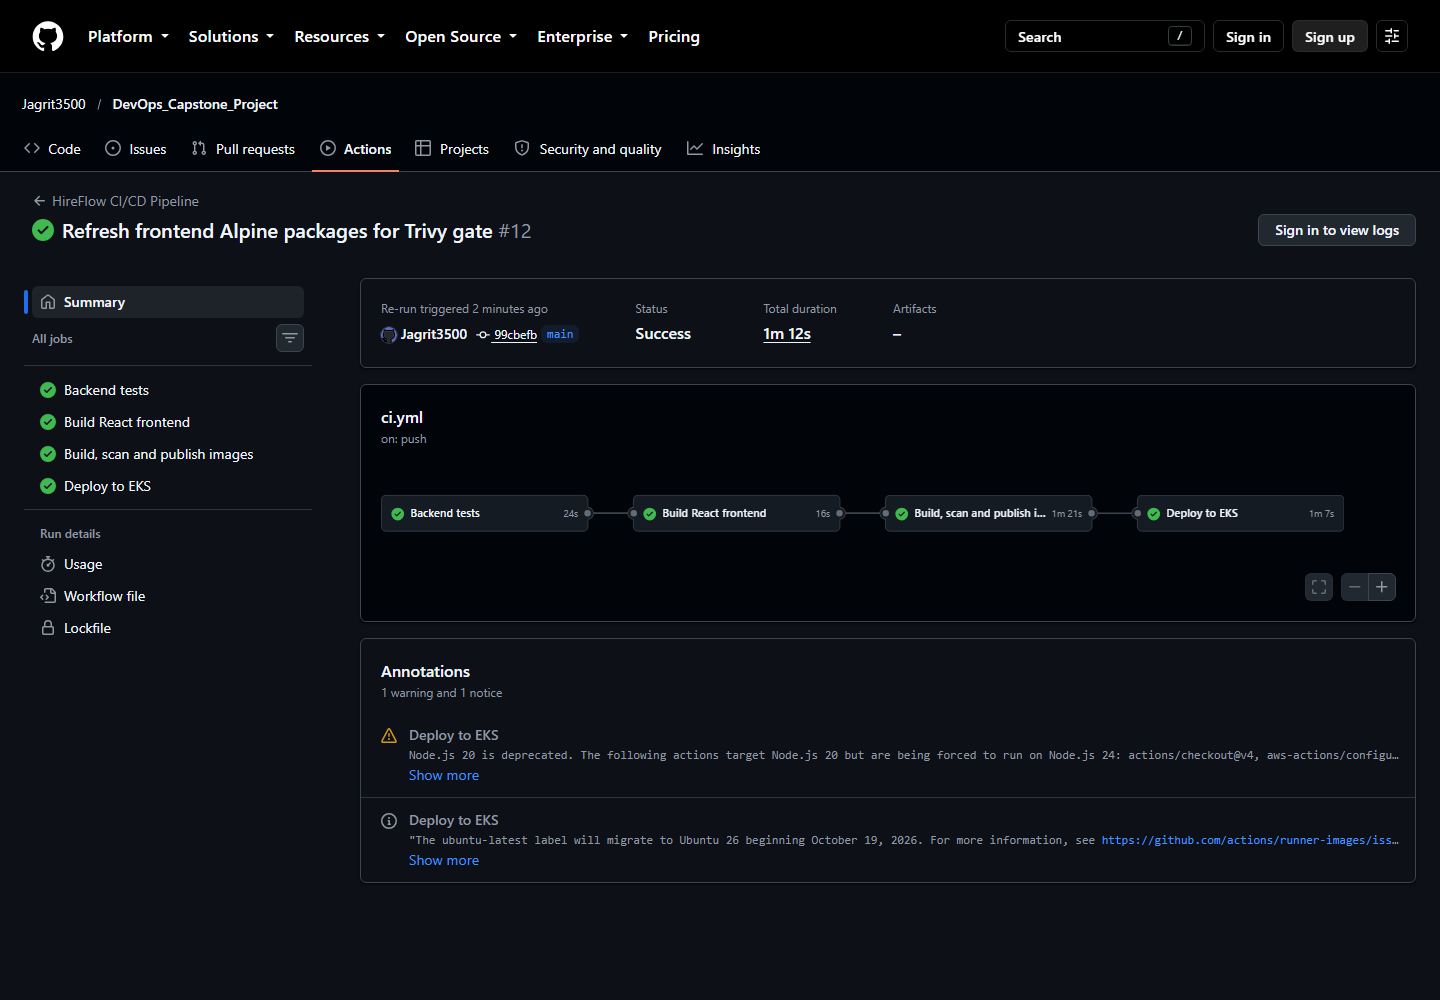
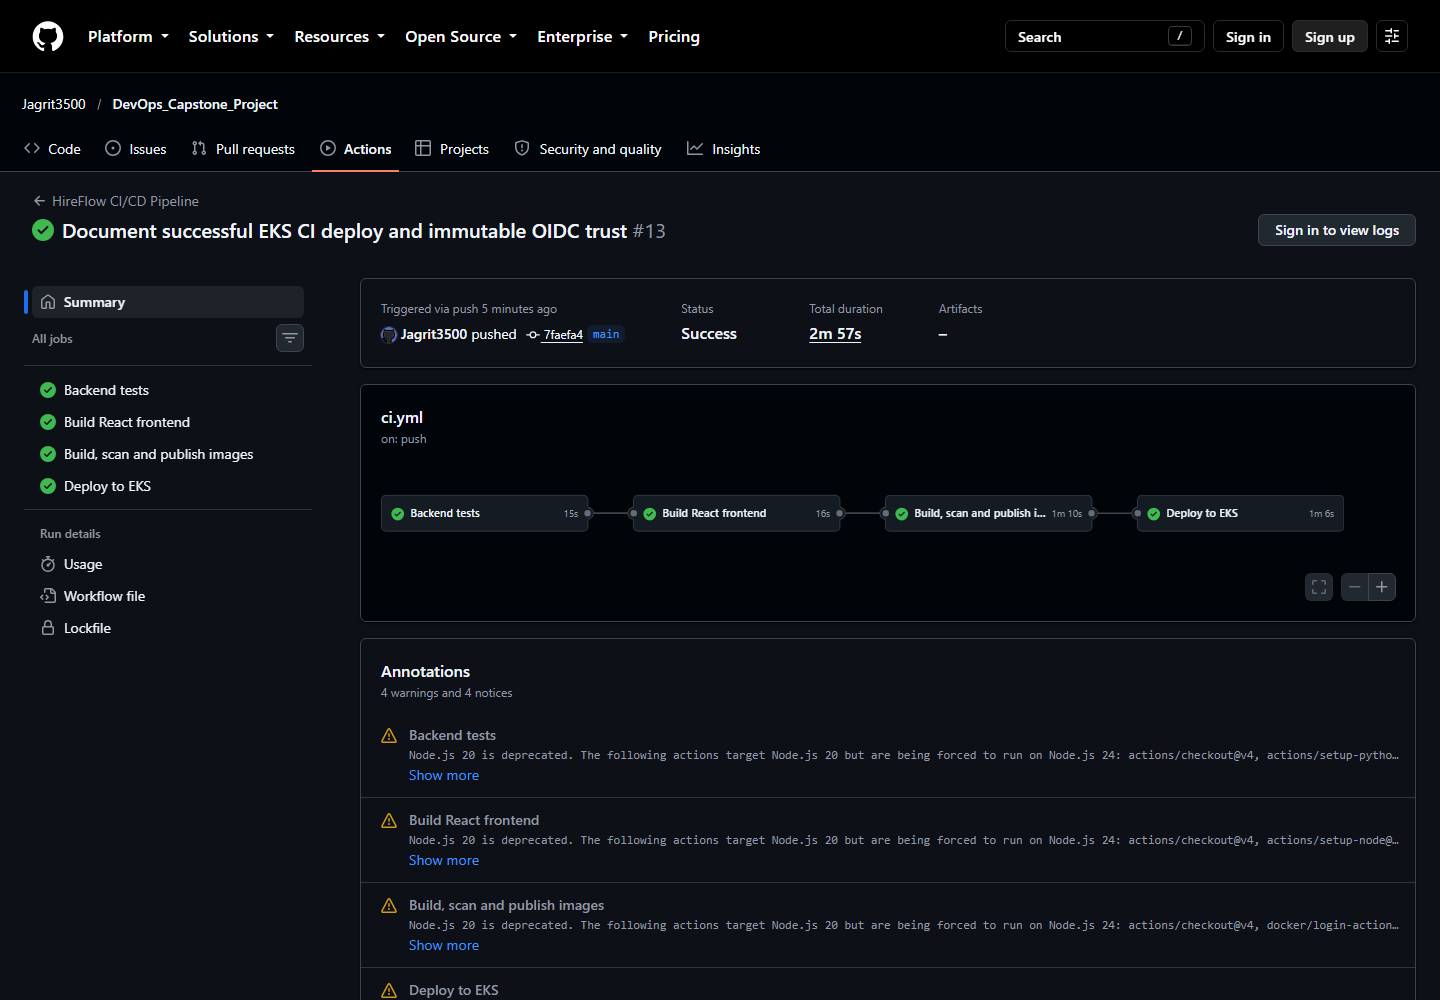
Refresh final deployment evidence [skip ci]

diff --git a/PROJECT_HANDOFF.md b/PROJECT_HANDOFF.md
@@ -8,8 +8,8 @@ The user wants the agent to run commands and complete work directly. Request use
 
 HireFlow is a candidate tracking application with a FastAPI backend, React/Vite frontend, PostgreSQL, Docker Compose, GitHub Actions, GHCR images, Terraform, EKS, Helm, Prometheus, and Grafana. The local app, tests, container build, live cloud app, automatic GitHub-to-EKS deployment, monitoring, and a deliberate Kubernetes failure exercise have all been verified. The live EKS cluster is `hireflow-eks` in `ap-south-1`.
 
-- [GitHub Actions run 39182339255, attempt 2](https://github.com/Jagrit3500/DevOps_Capstone_Project/actions/runs/39182339255) succeeded end to end: backend tests, frontend build, backend and frontend image builds, both Trivy HIGH/CRITICAL gates, GHCR publication, and Helm deployment to EKS. [Screenshot](evidence/ci-eks-success.png).
-- Both Kubernetes Deployments were `2/2` ready with image tag `99cbefb0f735fb1e49e1c86acf81a87fc8f2f7ac`; PostgreSQL was `1/1` ready; Helm `hireflow` revision 2 was deployed. The public `/health` returned HTTP 200 and `{"status":"healthy"}`. [Fresh cluster output](evidence/eks-status.txt).
+- [GitHub Actions run 39184093540](https://github.com/Jagrit3500/DevOps_Capstone_Project/actions/runs/39184093540) succeeded end to end: backend tests, frontend build, backend and frontend image builds, both Trivy HIGH/CRITICAL gates, GHCR publication, and Helm deployment to EKS. The [screenshot](evidence/ci-eks-success.png) shows this successful run.
+- Both Kubernetes Deployments were `2/2` ready with image tag `7faefa4ebb14414bae8171c30c8398b1f0e1ba1d`; PostgreSQL was `1/1` ready; Helm `hireflow` revision 3 was deployed. The public `/health` returned HTTP 200 and `{"status":"healthy"}`. [Fresh cluster output](evidence/eks-status.txt).
 - Both private EKS nodes were Ready; HPA CPU metrics and `kubectl top nodes` worked. PostgreSQL, Prometheus, and Grafana PVCs were Bound. Monitoring Pods were healthy, the Prometheus backend target was UP, and Grafana application panels displayed data.
 - `terraform fmt -check`, `terraform validate`, and a full-refresh [plan](evidence/terraform-current-plan.txt) passed. The current plan says **No changes**.
 - The stack remains live and may incur AWS charges. No `terraform destroy` has been run.
@@ -44,10 +44,9 @@ Evidence for local app and tests: [desktop](evidence/local-app.png), [mobile](ev
 
 ## Remaining work and boundaries
 
-1. Finish the final commit/push of the OIDC trust correction, current README/EVIDENCE, current plan and cluster output, this handoff, and the successful CI screenshot. Then verify the new GitHub Actions run and live deployment. Do not stage `debug.log`, `.aws`, `.kube`, `.env`, Terraform state, database or Grafana secrets.
-2. Capture AWS Console screenshots of the VPC and EKS cluster in Mumbai if the grading rubric requires them. The original nonempty creation plan exists in conversation history but has no standalone screenshot; the saved current plan is a real **no-drift** plan.
-3. Present or record the project walkthrough. This requires the user's participation; a coding agent can prepare the commands and evidence but cannot perform their presentation for them.
-4. After the demo and only with the user's explicit teardown decision, uninstall the Helm releases, handle PVCs, run `terraform destroy` against the preserved state, and verify cloud resources are gone. Destruction has not been authorized and would remove the live project.
+1. Capture AWS Console screenshots of the VPC and EKS cluster in Mumbai if the grading rubric requires them. The original nonempty creation plan exists in conversation history but has no standalone screenshot; the saved current plan is a real **no-drift** plan.
+2. Present or record the project walkthrough. This requires the user's participation; a coding agent can prepare the commands and evidence but cannot perform their presentation for them.
+3. After the demo and only with the user's explicit teardown decision, uninstall the Helm releases, handle PVCs, run `terraform destroy` against the preserved state, and verify cloud resources are gone. Destruction has not been authorized and would remove the live project.
 
 Useful starting checks in PowerShell from the repo root:
 

diff --git a/README.md b/README.md
@@ -316,9 +316,9 @@ Full docs: **http://localhost:8000/docs**
 | M2 - Testing | 19 pytest cases passed locally; [test screenshot](evidence/pytest-passing.png) captured |
 | M3 - Git | Repository pushed to GitHub with 10 meaningful commits; [history screenshot](evidence/commit-history.png) captured |
 | M4 - Docker | Both images built and all three Compose services started locally; [build screenshot](evidence/compose-build-start.png) and [services/database screenshot](evidence/docker-services-database.png) captured |
-| M5 - CI/CD | Tests, frontend build, image builds, Trivy gates, GHCR publication, and automatic EKS deployment passed in [run 39182339255 (attempt 2)](https://github.com/Jagrit3500/DevOps_Capstone_Project/actions/runs/39182339255); [successful deployment screenshot](evidence/ci-eks-success.png), [backend package](evidence/ghcr-backend.png), and [frontend package](evidence/ghcr-frontend.png) captured. |
+| M5 - CI/CD | Tests, frontend build, image builds, Trivy gates, GHCR publication, and automatic EKS deployment passed on the final source commit in [run 39184093540](https://github.com/Jagrit3500/DevOps_Capstone_Project/actions/runs/39184093540); [deployment screenshot](evidence/ci-eks-success.png), [backend package](evidence/ghcr-backend.png), and [frontend package](evidence/ghcr-frontend.png) captured. |
 | M6 - DevSecOps | Both image Trivy HIGH/CRITICAL gates passed in the deployment run; [backend](evidence/trivy-backend-summary.png) and [frontend](evidence/trivy-frontend-summary.png) scan screenshots captured. The frontend runtime updates Alpine packages during its build. |
 | M7 - Terraform | VPC, EKS, EBS CSI, and Metrics Server applied in `ap-south-1`; fmt, validate, and [a captured no-drift plan](evidence/terraform-current-plan.txt) passed. AWS Console screenshots and teardown proof remain. |
-| M8 — Kubernetes + Helm | `hireflow` Helm release revision 2 deployed on EKS from CI; two backend and two frontend Pods ready, PostgreSQL running, HPA metrics present. [Cluster output](evidence/eks-status.txt) and [live app screenshot](evidence/live-eks-app.png) captured. |
+| M8 — Kubernetes + Helm | `hireflow` Helm release revision 3 deployed on EKS from CI; two backend and two frontend Pods ready, PostgreSQL running, HPA metrics present. [Cluster output](evidence/eks-status.txt) and [live app screenshot](evidence/live-eks-app.png) captured. |
 | M9 — Observability | Prometheus target UP and Grafana application panels populated; [metrics](evidence/backend-metrics.txt), [Prometheus](evidence/prometheus-targets.png), and [Grafana](evidence/grafana-dashboard.png) evidence captured. |
 | M10 — Documentation | README present; live or recorded demonstration pending |

diff --git a/EVIDENCE.md b/EVIDENCE.md
@@ -21,7 +21,7 @@ The AWS and monitoring screenshots above were captured on 17 October 2026. Reche
 4. Push to `main`. Capture the successful GitHub Actions run URL, its Trivy scan output for both images, the GHCR package pages showing SHA tags, and the commit history.
 5. Add a 2–3 sentence explanation of what Trivy scanned and what the result means. Use the actual scan result.
 
-Verified CI/CD result: [run 39182339255 (attempt 2)](https://github.com/Jagrit3500/DevOps_Capstone_Project/actions/runs/39182339255) passed backend tests, frontend build, both image builds, both Trivy gates, GHCR publication, and the EKS deploy job. The [run screenshot](evidence/ci-eks-success.png) shows all four jobs green. GitHub Actions deployed image tag `99cbefb0f735fb1e49e1c86acf81a87fc8f2f7ac`; Helm revision 2, two ready backend Pods, two ready frontend Pods, and HTTP 200 from the public `/health` endpoint were independently verified. The [backend](evidence/ghcr-backend.png) and [frontend](evidence/ghcr-frontend.png) GHCR screenshots show public SHA-tagged images. A [390px mobile screenshot](evidence/mobile-app.png) was captured with `node scripts/capture-mobile.mjs`; its viewport and document width both measured 390px.
+Verified CI/CD result: [run 39184093540](https://github.com/Jagrit3500/DevOps_Capstone_Project/actions/runs/39184093540) passed backend tests, frontend build, both image builds, both Trivy gates, GHCR publication, and the EKS deploy job. The [run screenshot](evidence/ci-eks-success.png) shows all four jobs green. The final source run deployed image tag `7faefa4ebb14414bae8171c30c8398b1f0e1ba1d`; Helm revision 3, two ready backend Pods, two ready frontend Pods, and HTTP 200 from the public `/health` endpoint were independently verified. The [backend](evidence/ghcr-backend.png) and [frontend](evidence/ghcr-frontend.png) GHCR screenshots show public SHA-tagged images. A [390px mobile screenshot](evidence/mobile-app.png) was captured with `node scripts/capture-mobile.mjs`; its viewport and document width both measured 390px.
 
 Trivy scanned the operating-system and installed application packages in both runtime images for HIGH and CRITICAL vulnerabilities. Both refreshed images passed the strict gate; the local scan reported zero such findings in each image, and the GitHub Actions scans also passed. Future scans can change as the vulnerability database and image tags are updated.
 
